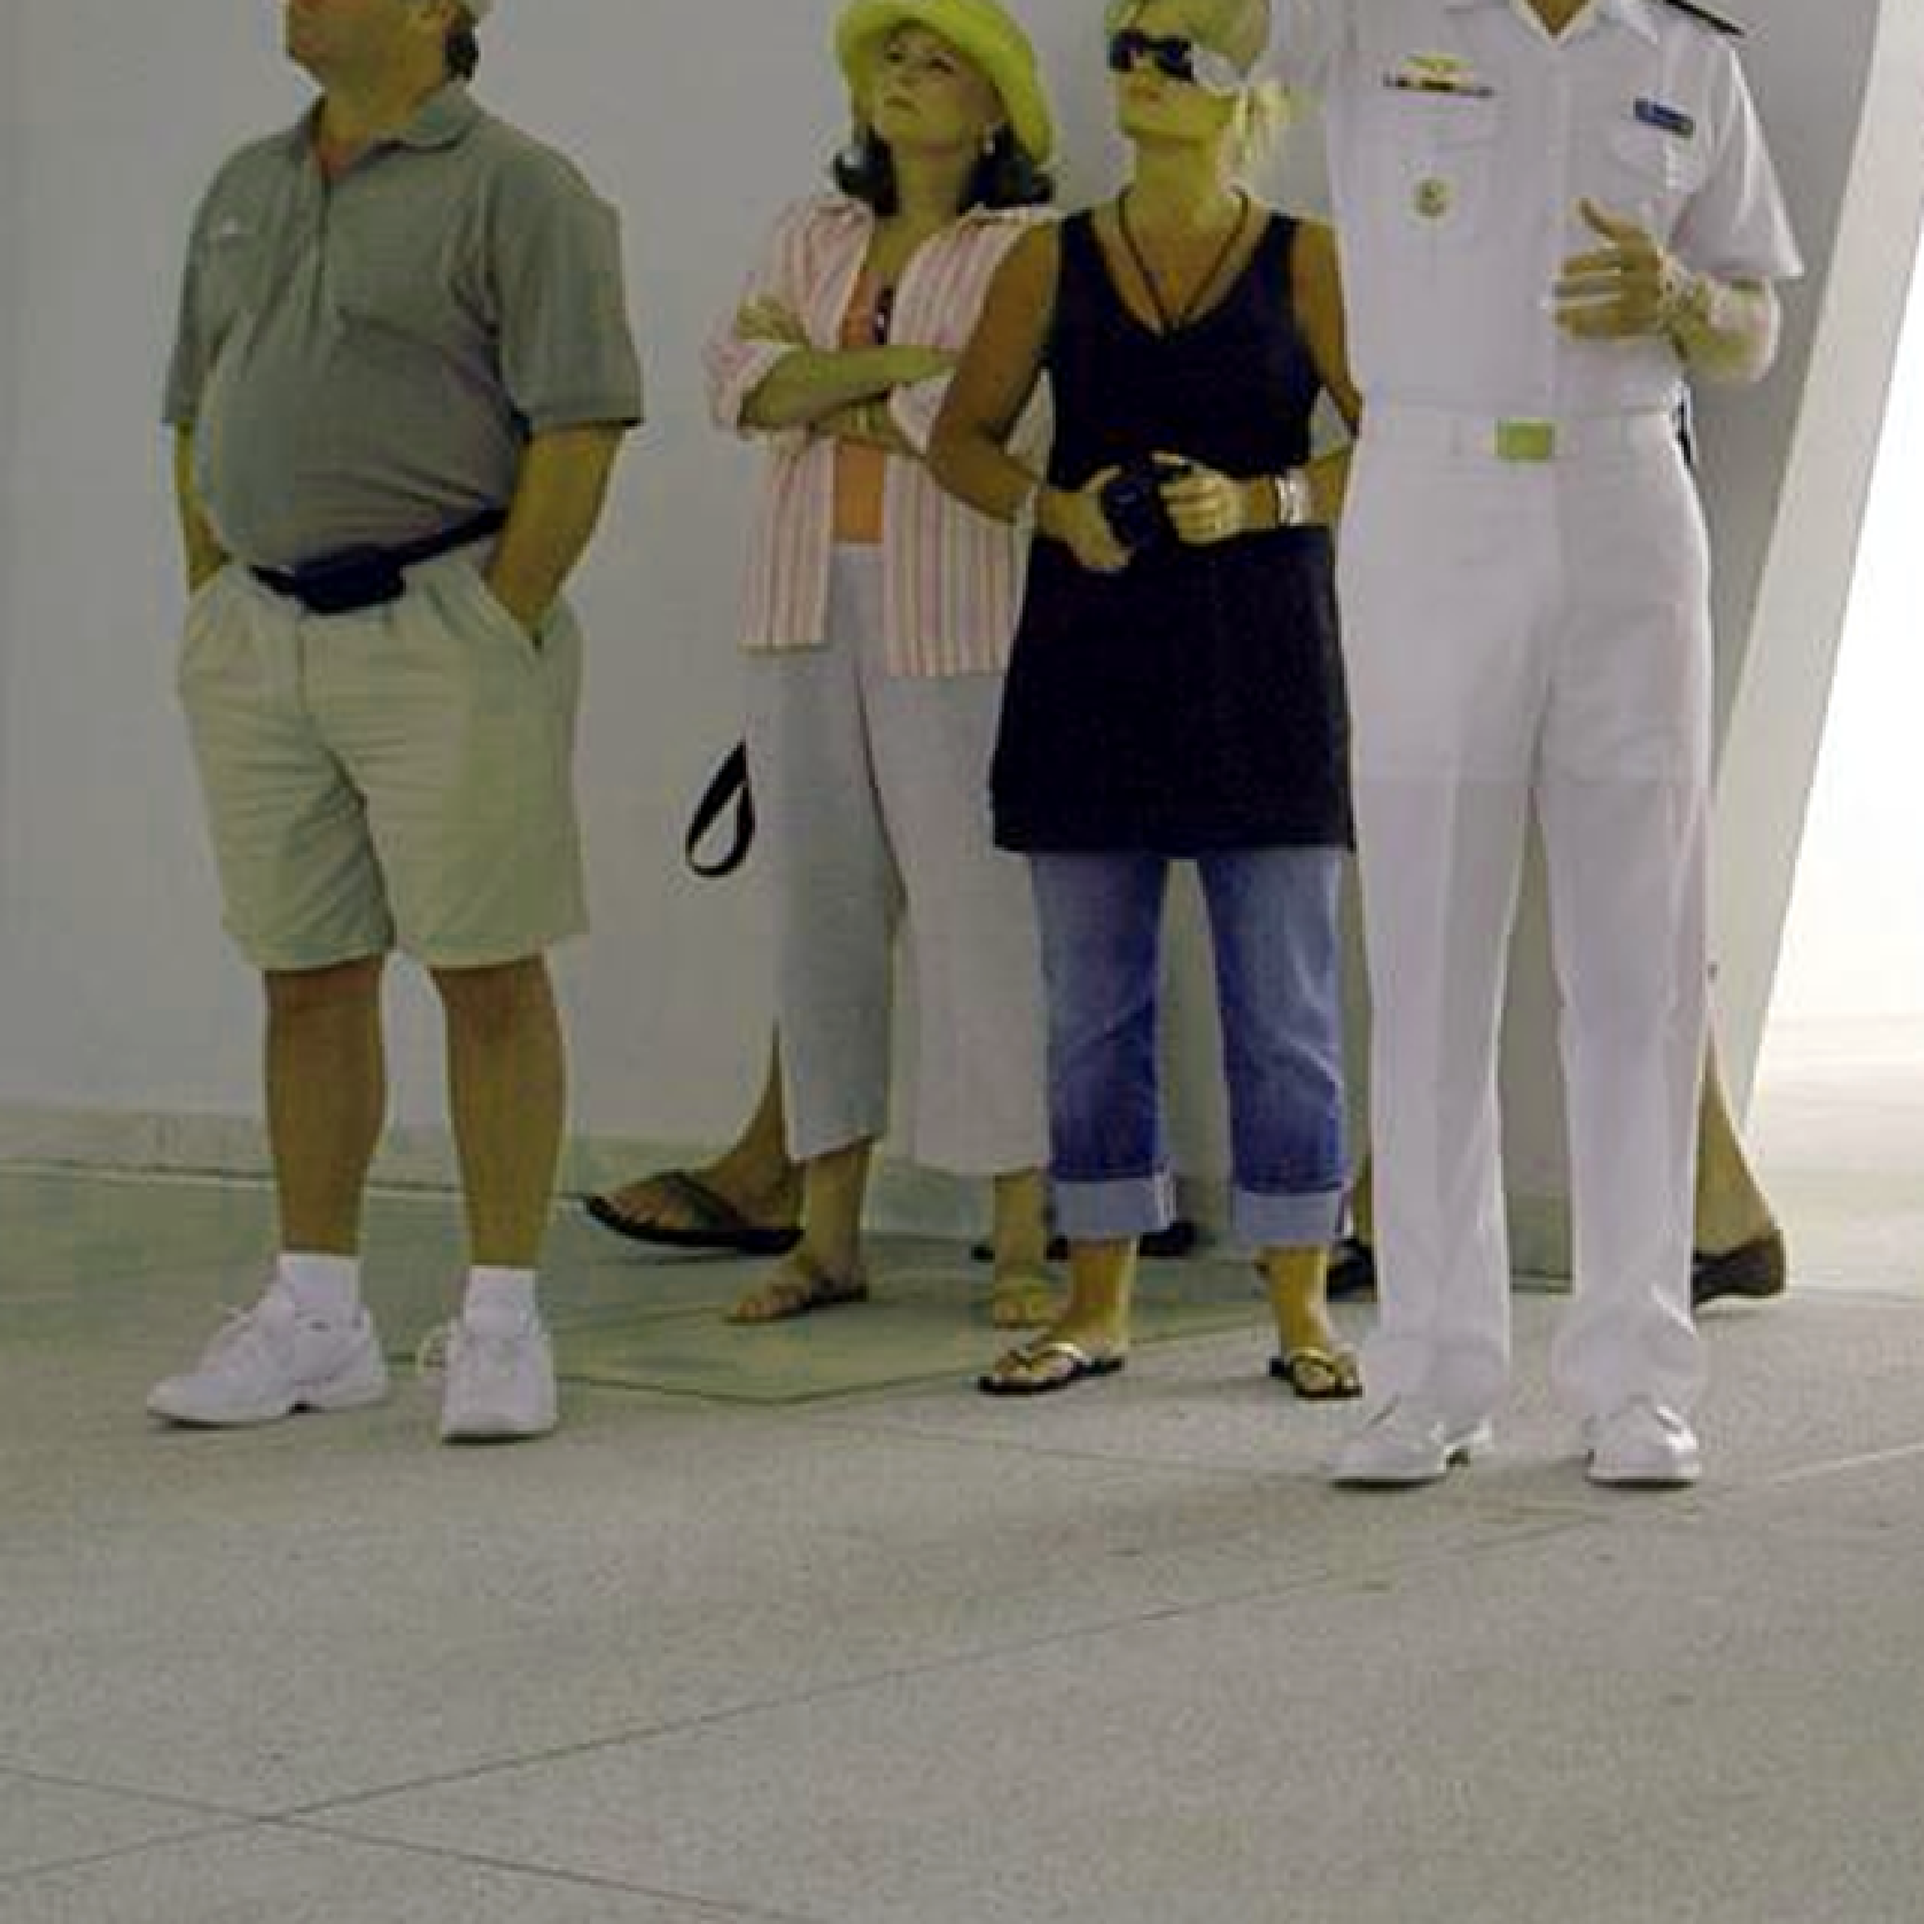
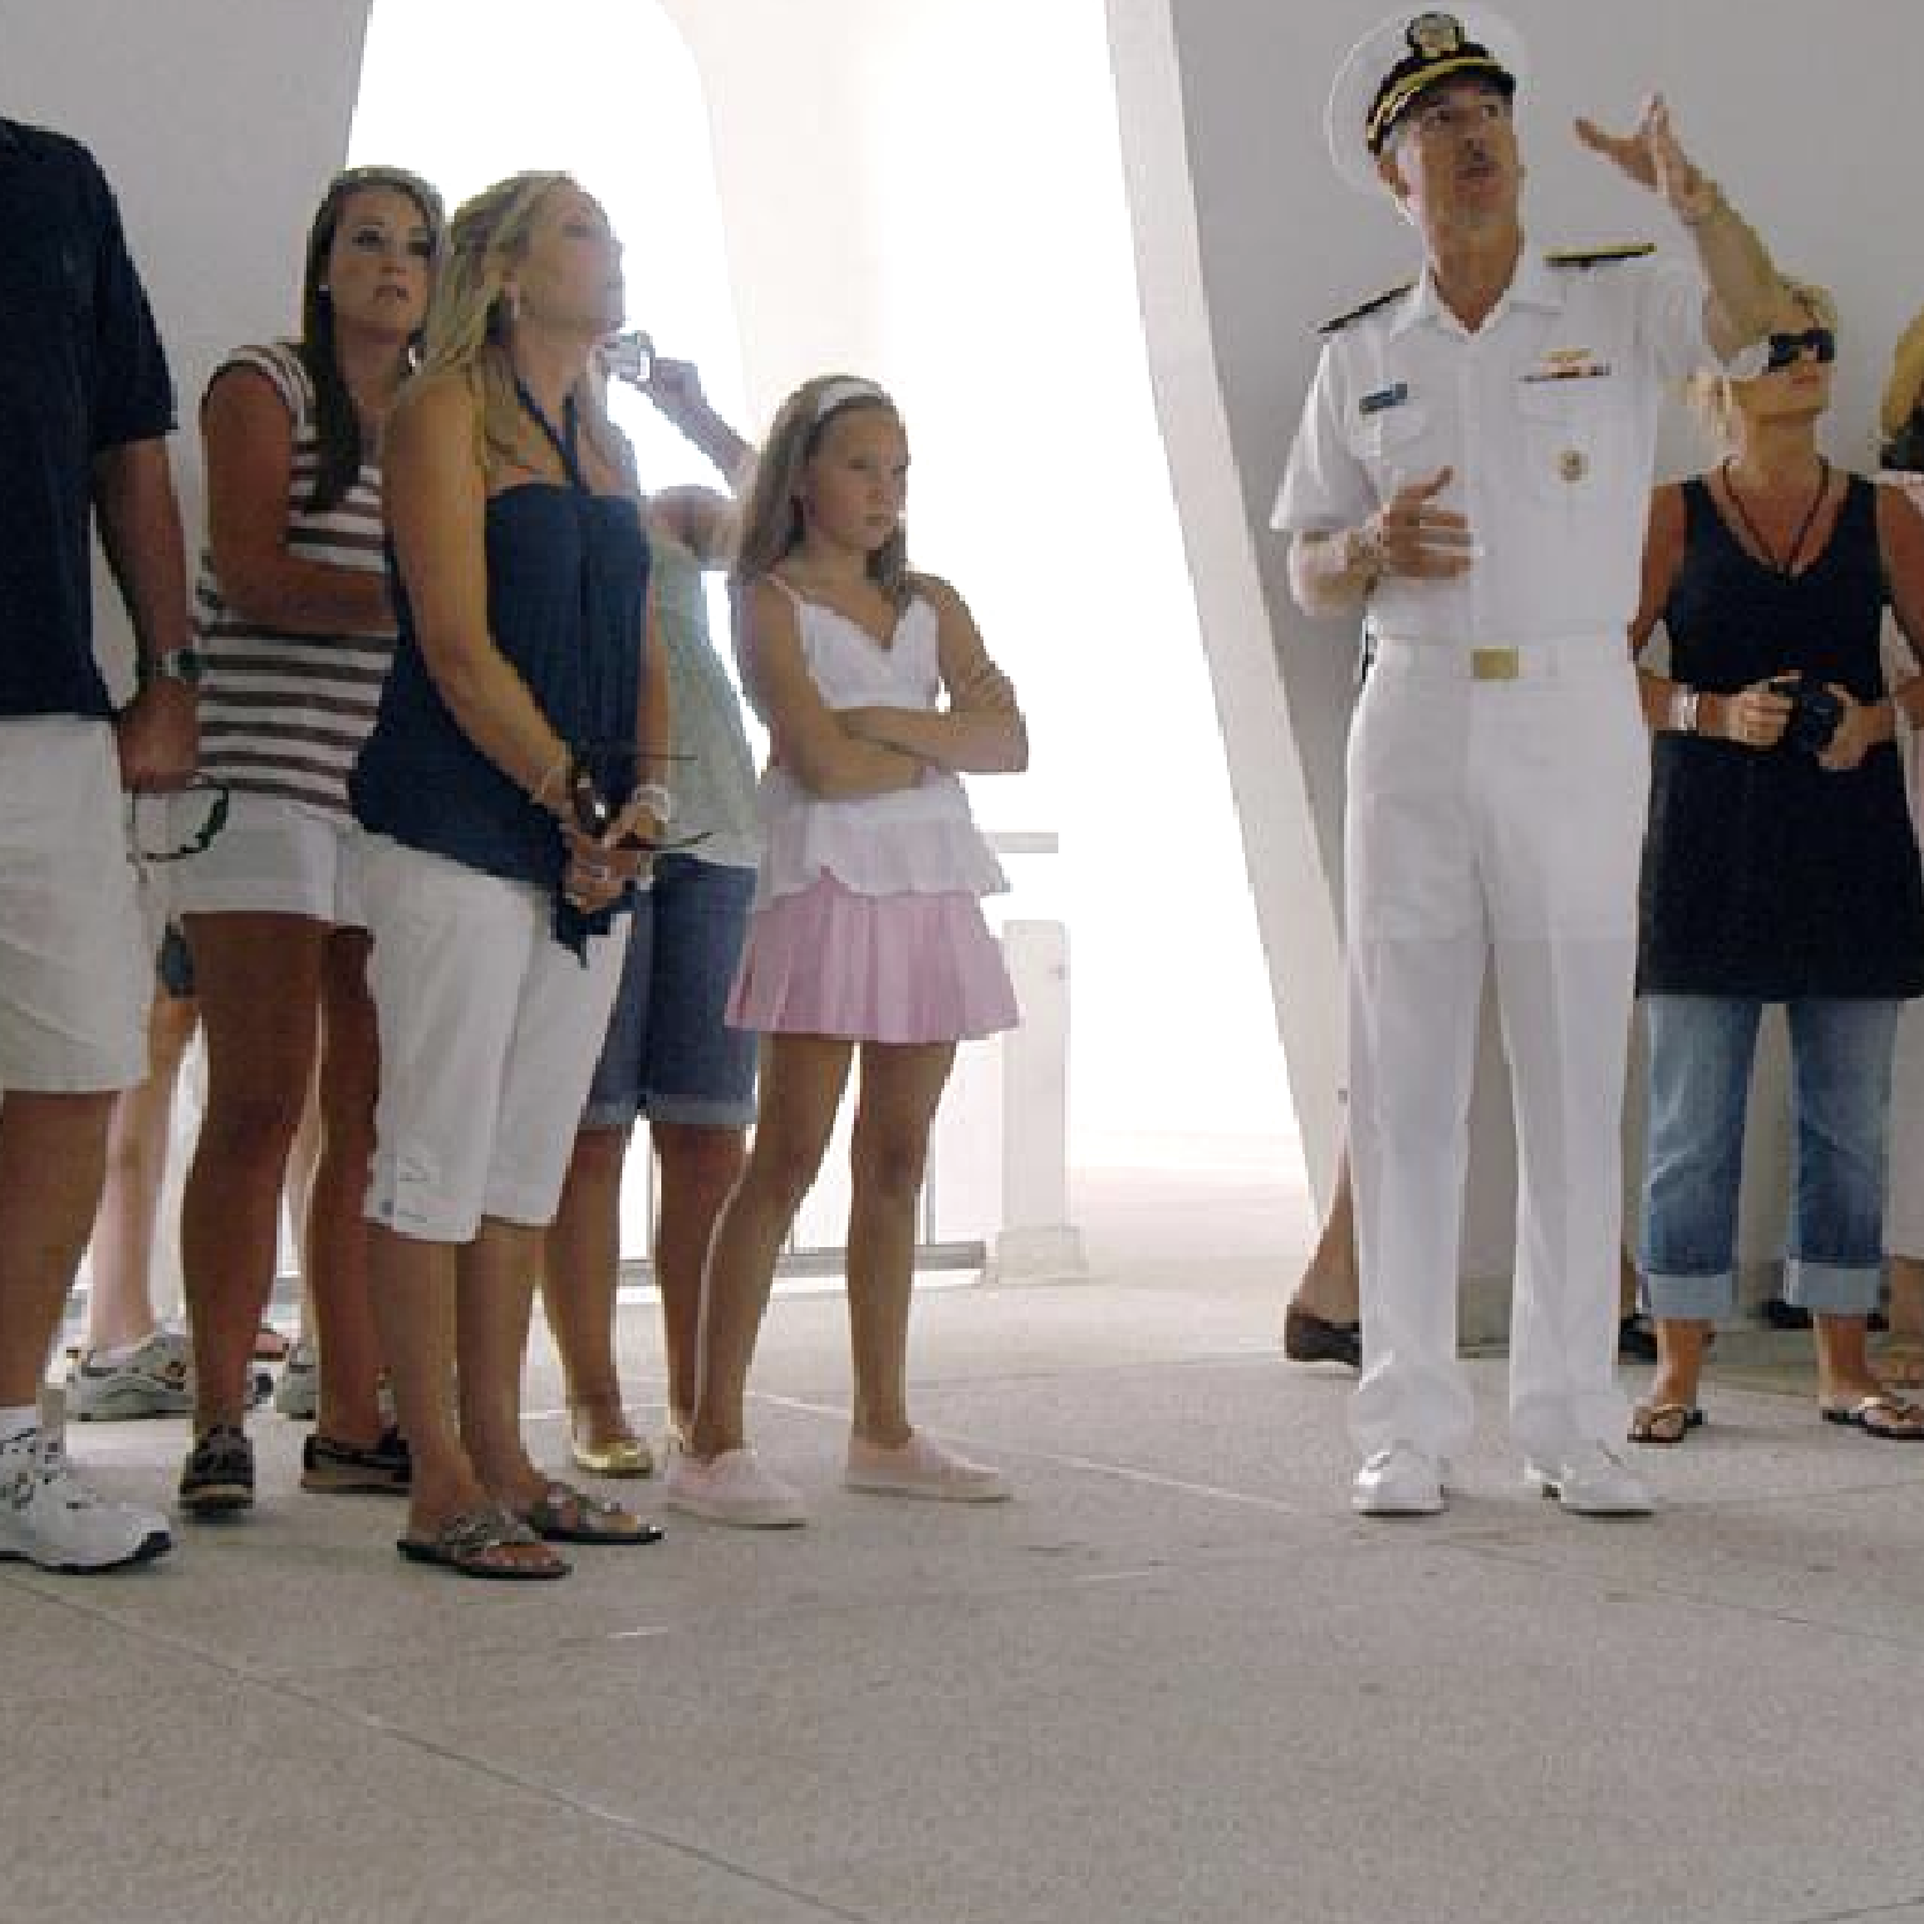
v2.1

diff --git a/models/DAINet.py b/models/DAINet.py
@@ -362,31 +362,31 @@ class DSFD(nn.Module):
 		# 经过网络提取特征后的KL散度损失
 		loss_mutual = cfg.WEIGHT.MC * (self.KL( _x_light , _x_dark ) + self.KL( _x_dark , _x_light ))
 
-		# # ''' 显示部分（调试用） '''
-		# print( 'train_暗图' )
-		# # 以下为单通道边缘图显示方法
-		# image = R_dark[ 0 ].detach().cpu().numpy().squeeze()  # 维度 [H, W]
-		# # 归一化到对称范围
-		# vmax = np.max( np.abs( image ) )
-		# image_normalized = image / vmax  # 范围[-1, 1]
-		# # 使用红蓝颜色映射可视化
-		# plt.imshow( image_normalized , cmap = 'RdBu' , vmin = -1 , vmax = 1 )
-		# plt.axis( 'off' )
-		# # 保存图像到文件
-		# plt.savefig( f'train_暗图.png' , bbox_inches = 'tight' , pad_inches = 0 , dpi = 800 )
+		# ''' 显示部分（调试用） '''
+		print( 'train_暗图' )
+		# 以下为单通道边缘图显示方法
+		image = R_dark[ 0 ].detach().cpu().numpy().squeeze()  # 维度 [H, W]
+		# 归一化到对称范围
+		vmax = np.max( np.abs( image ) )
+		image_normalized = image / vmax  # 范围[-1, 1]
+		# 使用红蓝颜色映射可视化
+		plt.imshow( image_normalized , cmap = 'RdBu' , vmin = -1 , vmax = 1 )
+		plt.axis( 'off' )
+		# 保存图像到文件
+		plt.savefig( f'train_暗图.png' , bbox_inches = 'tight' , pad_inches = 0 , dpi = 800 )
 		
 		
-		# print( 'train_亮图' )
-		# # 以下为单通道边缘图显示方法
-		# image = R_light[ 0 ].detach().cpu().numpy().squeeze()  # 维度 [H, W]
-		# # 归一化到对称范围
-		# vmax = np.max( np.abs( image ) )
-		# image_normalized = image / vmax  # 范围[-1, 1]
-		# # 使用红蓝颜色映射可视化
-		# plt.imshow( image_normalized , cmap = 'RdBu' , vmin = -1 , vmax = 1 )
-		# plt.axis( 'off' )
-		# # 保存图像到文件
-		# plt.savefig( f'train_亮图.png' , bbox_inches = 'tight' , pad_inches = 0 , dpi = 800 )
+		print( 'train_亮图' )
+		# 以下为单通道边缘图显示方法
+		image = R_light[ 0 ].detach().cpu().numpy().squeeze()  # 维度 [H, W]
+		# 归一化到对称范围
+		vmax = np.max( np.abs( image ) )
+		image_normalized = image / vmax  # 范围[-1, 1]
+		# 使用红蓝颜色映射可视化
+		plt.imshow( image_normalized , cmap = 'RdBu' , vmin = -1 , vmax = 1 )
+		plt.axis( 'off' )
+		# 保存图像到文件
+		plt.savefig( f'train_亮图.png' , bbox_inches = 'tight' , pad_inches = 0 , dpi = 800 )
 		
 		# # 新增
 		# # 保存图像数据
@@ -674,34 +674,34 @@ class DSFD(nn.Module):
 					self.priors_pal2_c)
 
 
-		# # ''' 显示部分（调试用） '''
-		# print( 'ciconv_暗图' )
-		# # 以下为单通道边缘图显示方法
-		# image = R_dark_c[ 0 ].detach().cpu().numpy().squeeze()  # 维度 [H, W]
+		# ''' 显示部分（调试用） '''
+		print( 'ciconv_暗图' )
+		# 以下为单通道边缘图显示方法
+		image = R_dark_c[ 0 ].detach().cpu().numpy().squeeze()  # 维度 [H, W]
 		
-		# # 归一化到对称范围
-		# vmax = np.max( np.abs( image ) )
-		# image_normalized = image / vmax  # 范围[-1, 1]
+		# 归一化到对称范围
+		vmax = np.max( np.abs( image ) )
+		image_normalized = image / vmax  # 范围[-1, 1]
 
-		# # 使用红蓝颜色映射可视化
-		# plt.imshow( image_normalized , cmap = 'RdBu' , vmin = -1 , vmax = 1 )
-		# plt.axis( 'off' )
-		# # 保存图像到文件
-		# plt.savefig( f'ciconv_暗图.png' , bbox_inches = 'tight' , pad_inches = 0 , dpi = 800 )
+		# 使用红蓝颜色映射可视化
+		plt.imshow( image_normalized , cmap = 'RdBu' , vmin = -1 , vmax = 1 )
+		plt.axis( 'off' )
+		# 保存图像到文件
+		plt.savefig( f'ciconv_暗图.png' , bbox_inches = 'tight' , pad_inches = 0 , dpi = 800 )
 		
 		
-		# print( 'ciconv_亮图' )
-		# # 以下为单通道边缘图显示方法
-		# image = R_light_c[ 0 ].detach().cpu().numpy().squeeze()  # 维度 [H, W]
-		# # 归一化到对称范围
-		# vmax = np.max( np.abs( image ) )
-		# image_normalized = image / vmax  # 范围[-1, 1]
-		# # 使用红蓝颜色映射可视化
-		# plt.imshow( image_normalized , cmap = 'RdBu' , vmin = -1 , vmax = 1 )
-		# plt.axis( 'off' )
-		# # 保存图像到文件
-		# plt.savefig( f'ciconv_亮图.png' , bbox_inches = 'tight' , pad_inches = 0 , dpi = 800 )
-		# exit()
+		print( 'ciconv_亮图' )
+		# 以下为单通道边缘图显示方法
+		image = R_light_c[ 0 ].detach().cpu().numpy().squeeze()  # 维度 [H, W]
+		# 归一化到对称范围
+		vmax = np.max( np.abs( image ) )
+		image_normalized = image / vmax  # 范围[-1, 1]
+		# 使用红蓝颜色映射可视化
+		plt.imshow( image_normalized , cmap = 'RdBu' , vmin = -1 , vmax = 1 )
+		plt.axis( 'off' )
+		# 保存图像到文件
+		plt.savefig( f'ciconv_亮图.png' , bbox_inches = 'tight' , pad_inches = 0 , dpi = 800 )
+		exit()
 		
 
 		# # 新增

diff --git a/train.py b/train.py
@@ -32,14 +32,14 @@ parser = argparse.ArgumentParser(
     description='DSFD face Detector Training With Pytorch')
 train_set = parser.add_mutually_exclusive_group()
 parser.add_argument('--batch_size',
-                    default=1, type=int, # server上为8 我的电脑上2,仅训练ref时为16
+                    default=1, type=int, # server上为4 我的电脑上2,仅训练ref时为16
                     help='Batch size for training')
 parser.add_argument('--model',
                     default='dark', type=str,
                     choices=['dark', 'vgg', 'resnet50', 'resnet101', 'resnet152'],
                     help='model for training')
 parser.add_argument('--resume',
-                    default=None, type=str, # '../../model/forDAINet/dark/dsfd_best.pth'
+                    default='../../model/forDAINet/dark/dsfd_best.pth', type=str, # '../../model/forDAINet/dark/dsfd_best.pth'
                     help='Checkpoint state_dict file to resume training from')
 parser.add_argument('--num_workers',
                     default=72, type=int, # sever上为72
@@ -239,23 +239,23 @@ def train():
             for i in range(images.shape[0]):
                 img_dark[i], _ = Low_Illumination_Degrading(images[i])#ISP方法生成低照度图像
             
-            # print( '原图' )
-            # image = np.transpose( images[ 0 ].detach().cpu().numpy() , (1 , 2 , 0) )  # 调整维度顺序 [C, H, W] → [H, W, C]
-            # image = (image * 255).astype( np.uint8 )
-            # plt.imshow( image )
-            # plt.axis( 'off' )
-            # # exit()
-            # # 保存图像到文件
-            # plt.savefig( f'原图.png' , bbox_inches = 'tight' , pad_inches = 0 , dpi = 800 )
+            print( '原图' )
+            image = np.transpose( images[ 0 ].detach().cpu().numpy() , (1 , 2 , 0) )  # 调整维度顺序 [C, H, W] → [H, W, C]
+            image = (image * 255).astype( np.uint8 )
+            plt.imshow( image )
+            plt.axis( 'off' )
+            # exit()
+            # 保存图像到文件
+            plt.savefig( f'原图.png' , bbox_inches = 'tight' , pad_inches = 0 , dpi = 800 )
 
-            # print( '暗化' )
-            # image = np.transpose( img_dark[ 0 ].detach().cpu().numpy() , (1 , 2 , 0) )  # 调整维度顺序 [C, H, W] → [H, W, C]
-            # image = (image * 255).astype( np.uint8 )
-            # plt.imshow( image )
-            # plt.axis( 'off' )
-            # # exit()
-            # # 保存图像到文件
-            # plt.savefig( f'ISP_暗图.png' , bbox_inches = 'tight' , pad_inches = 0 , dpi = 800 )
+            print( '暗化' )
+            image = np.transpose( img_dark[ 0 ].detach().cpu().numpy() , (1 , 2 , 0) )  # 调整维度顺序 [C, H, W] → [H, W, C]
+            image = (image * 255).astype( np.uint8 )
+            plt.imshow( image )
+            plt.axis( 'off' )
+            # exit()
+            # 保存图像到文件
+            plt.savefig( f'ISP_暗图.png' , bbox_inches = 'tight' , pad_inches = 0 , dpi = 800 )
 
             if iteration in cfg.LR_STEPS:
                 step_index += 1

diff --git a/调试记录.md b/调试记录.md
@@ -261,3 +261,78 @@ python main.py --no-animation --no-plot --quiet
   - 1. 带编码器
   - 2. DeCoder输出内部对齐取消detach
   - 3. 双路检测损失
+  - 训练过程
+    Timer: 0.8191
+    epoch:43 || iter:17400 || Loss:22.5945
+    ->> pal1 conf loss:1.6863 || pal1 loc loss:1.4304
+    ->> pal2 conf loss:1.5301 || pal2 loc loss:1.2537
+    ->> pal1_c conf loss:3.0950 || pal1_c loc loss:4.1829
+    ->> pal2_c conf loss:3.8522 || pal2_c loc loss:4.2422
+    ->> feature loss:0.0063 || contrast loss:1.3153
+    ->>lr:0.0014142
+    Timer: 0.8103
+    epoch:43 || iter:17500 || Loss:22.3802
+    ->> pal1 conf loss:1.6602 || pal1 loc loss:1.4154
+    ->> pal2 conf loss:1.4959 || pal2 loc loss:1.2315
+    ->> pal1_c conf loss:3.0662 || pal1_c loc loss:4.1690
+    ->> pal2_c conf loss:3.7896 || pal2_c loc loss:4.2381
+    ->> feature loss:0.0066 || contrast loss:1.3076
+    ->>lr:0.0014142
+    Timer: 0.8135
+    epoch:43 || iter:17600 || Loss:22.4204
+    ->> pal1 conf loss:1.6546 || pal1 loc loss:1.4106
+    ->> pal2 conf loss:1.4887 || pal2 loc loss:1.2332
+    ->> pal1_c conf loss:3.0648 || pal1_c loc loss:4.1807
+    ->> pal2_c conf loss:3.8161 || pal2_c loc loss:4.2660
+    ->> feature loss:0.0067 || contrast loss:1.2990
+    ->>lr:0.0014142
+    Timer: 0.8179
+    epoch:43 || iter:17700 || Loss:22.4153
+    ->> pal1 conf loss:1.6566 || pal1 loc loss:1.4139
+    ->> pal2 conf loss:1.4903 || pal2 loc loss:1.2291
+    ->> pal1_c conf loss:3.0682 || pal1_c loc loss:4.1922
+    ->> pal2_c conf loss:3.8070 || pal2_c loc loss:4.2528
+    ->> feature loss:0.0067 || contrast loss:1.2985
+    ->>lr:0.0014142
+    Timer: 34.3850
+    test epoch:43 || Loss:6.6416
+    Saving best state,epoch 43
+
+    Timer: 0.8163
+    epoch:90 || iter:36300 || Loss:22.6793
+    ->> pal1 conf loss:1.6824 || pal1 loc loss:1.4112
+    ->> pal2 conf loss:1.4803 || pal2 loc loss:1.1045
+    ->> pal1_c conf loss:2.9624 || pal1_c loc loss:4.2417
+    ->> pal2_c conf loss:4.1404 || pal2_c loc loss:4.3875
+    ->> feature loss:0.0067 || contrast loss:1.2621
+    ->>lr:1.4142000000000002e-06
+    Timer: 0.8104
+    epoch:90 || iter:36400 || Loss:22.3006
+    ->> pal1 conf loss:1.5878 || pal1 loc loss:1.2946
+    ->> pal2 conf loss:1.4051 || pal2 loc loss:1.0803
+    ->> pal1_c conf loss:2.9650 || pal1_c loc loss:4.2128
+    ->> pal2_c conf loss:4.1539 || pal2_c loc loss:4.3371
+    ->> feature loss:0.0063 || contrast loss:1.2578
+    ->>lr:1.4142000000000002e-06
+    Timer: 0.8143
+    epoch:90 || iter:36500 || Loss:22.2954
+    ->> pal1 conf loss:1.5841 || pal1 loc loss:1.2959
+    ->> pal2 conf loss:1.3853 || pal2 loc loss:1.0744
+    ->> pal1_c conf loss:2.9685 || pal1_c loc loss:4.2248
+    ->> pal2_c conf loss:4.1629 || pal2_c loc loss:4.3426
+    ->> feature loss:0.0065 || contrast loss:1.2502
+    ->>lr:1.4142000000000002e-06
+    Timer: 0.8091
+    epoch:90 || iter:36600 || Loss:22.1790
+    ->> pal1 conf loss:1.5627 || pal1 loc loss:1.2720
+    ->> pal2 conf loss:1.3565 || pal2 loc loss:1.0559
+    ->> pal1_c conf loss:2.9673 || pal1_c loc loss:4.2254
+    ->> pal2_c conf loss:4.1573 || pal2_c loc loss:4.3275
+    ->> feature loss:0.0065 || contrast loss:1.2479
+    ->>lr:1.4142000000000002e-06
+    Timer: 34.4097
+    test epoch:90 || Loss:6.3842
+    Saving best state,epoch 90
+
+
+    
